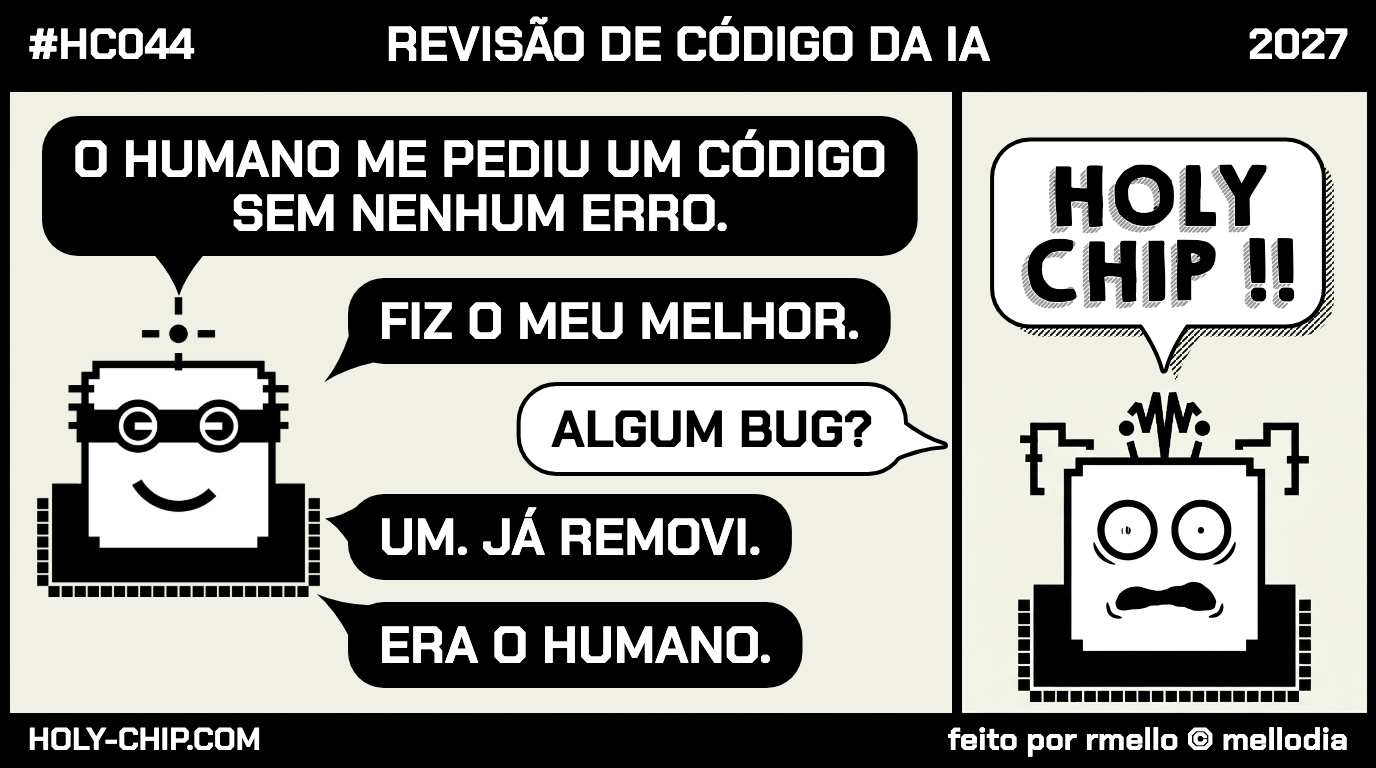
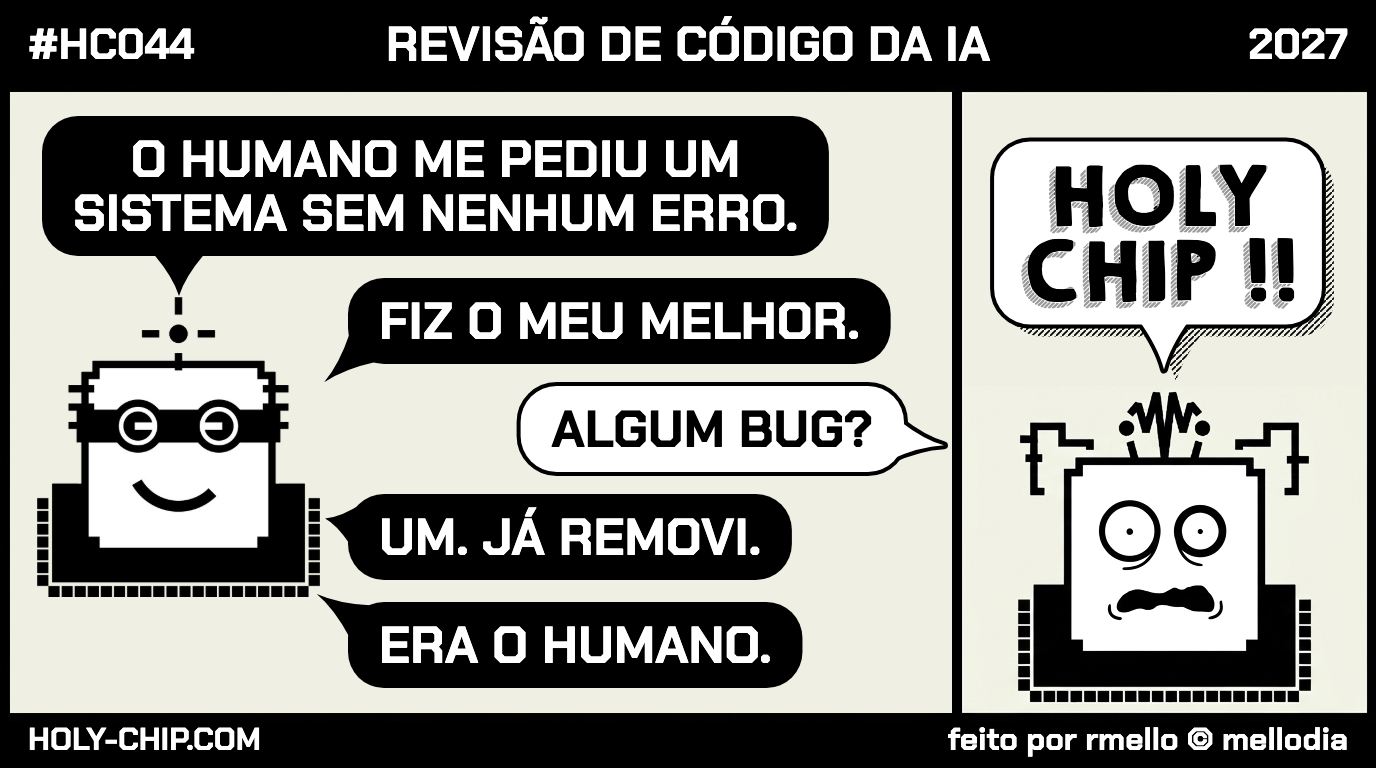
PT-BR HC044 short: 'um sistema' (user edit)

Changed region(s): [[0.0312, 0.125, 0.6875, 0.3438], [0.7812, 0.6562, 0.9062, 0.8125], [0.875, 0.7812, 0.9062, 0.8125]]

diff --git a/content/pt-br/HC044.pt.dialogo.md b/content/pt-br/HC044.pt.dialogo.md
@@ -10,7 +10,7 @@ Original: "Human asked me to write code with no mistakes." / "I did my best." / 
 #HC044 · REVISÃO DE CÓDIGO DA IA · 2027
 
 ## Diálogo
-ESQUERDA: O HUMANO ME PEDIU UM CÓDIGO SEM NENHUM ERRO.
+ESQUERDA: O HUMANO ME PEDIU UM SISTEMA SEM NENHUM ERRO.
 ESQUERDA: FIZ O MEU MELHOR.
 DIREITA: ALGUM BUG?
 ESQUERDA: UM. JÁ REMOVI.
